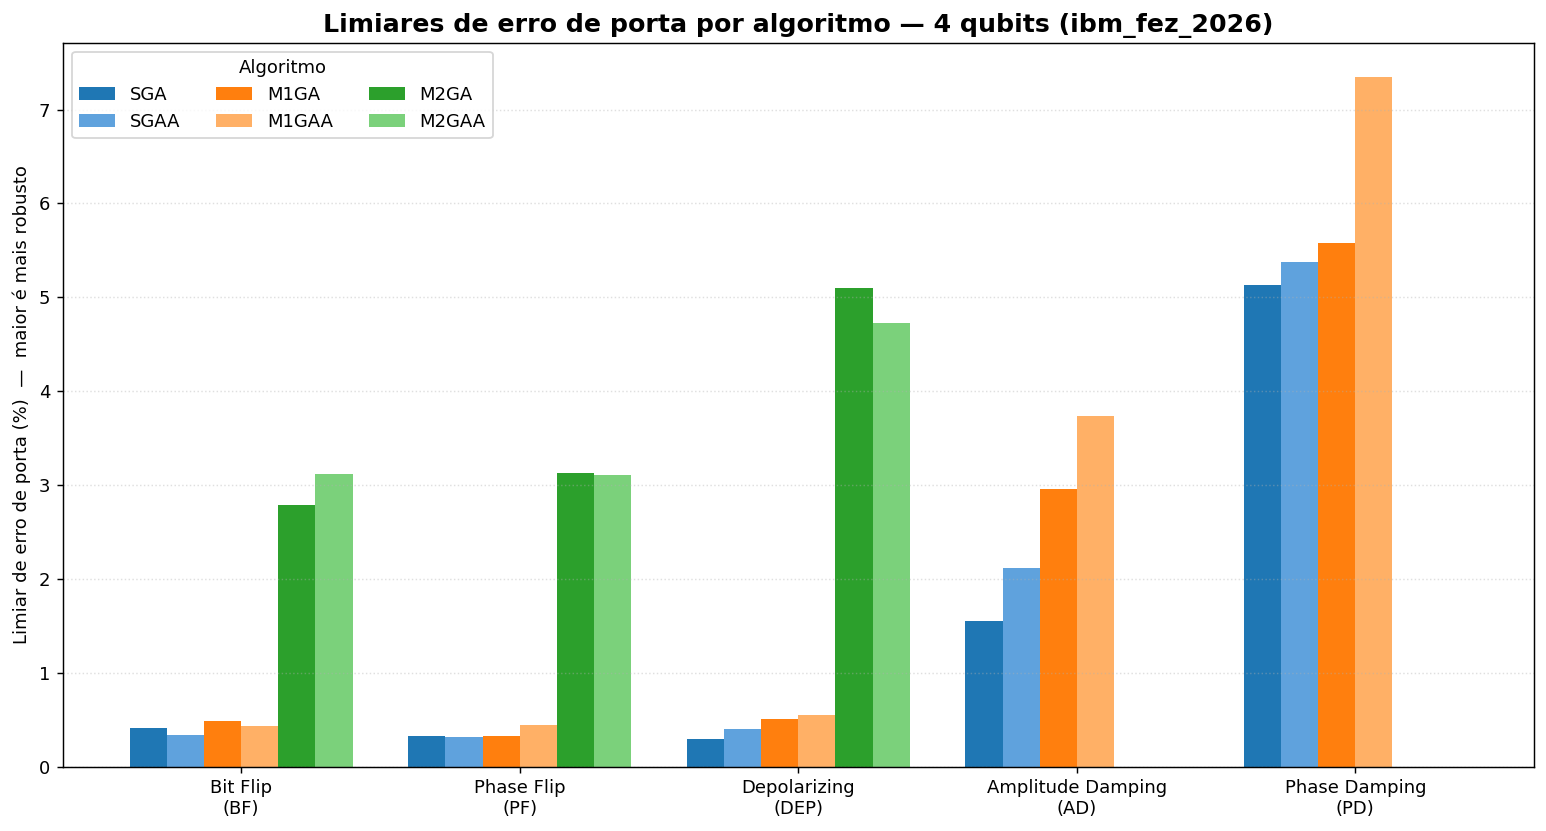
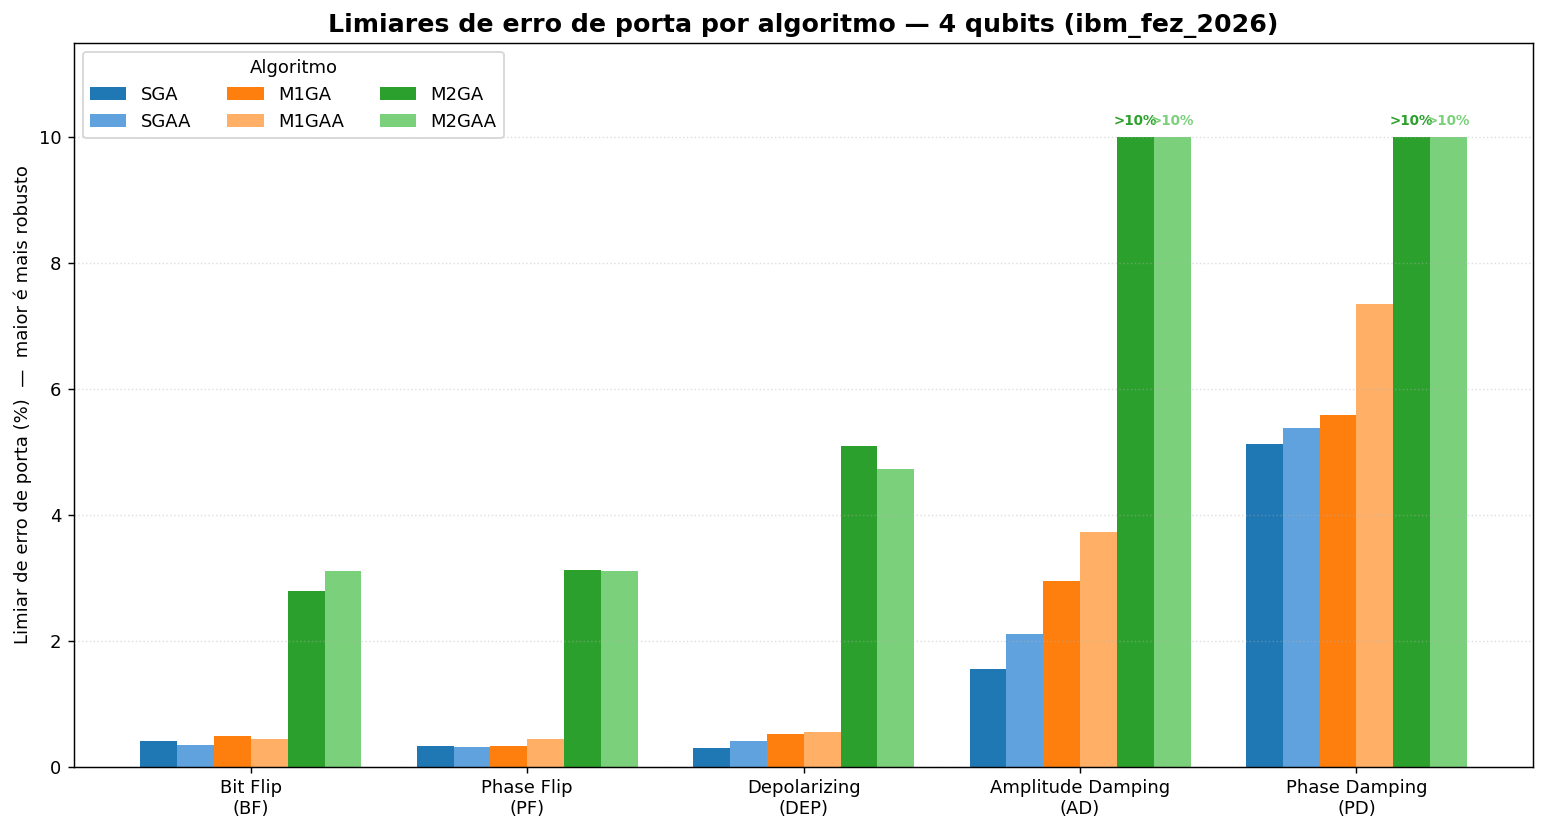
fix: correct gate error thresholds bar chart visualization for hyper-robust algorithms M2GA/M2GAA

Changed region(s): [[0.0, 0.0602, 0.5899, 0.9928], [0.621, 0.0903, 0.9935, 0.9928], [0.1863, 0.0, 0.8383, 0.0602]]

diff --git a/src/plot_results.py b/src/plot_results.py
@@ -108,17 +108,33 @@ def fig_gate_thresholds(gate_records, profile, n_qubits):
 
     for i, algo in enumerate(ALGO_ORDER):
         vals = []
+        is_hyper_robust = []
         for err in ERR_ORDER:
             rec = idx.get((n_qubits, algo, err))
             tp = rec.get("threshold_prob") if rec else None
-            vals.append((tp * 100.0) if tp is not None else 0.0)
-        ax.bar(x + i * width, vals, width, label=algo, color=ALGO_COLOR[algo])
+            if tp is not None:
+                vals.append(tp * 100.0)
+                is_hyper_robust.append(False)
+            else:
+                # Se for None, o algoritmo se manteve S >= 3dB em toda a varredura (até 10%)
+                vals.append(10.0)
+                is_hyper_robust.append(True)
+        bars = ax.bar(x + i * width, vals, width, label=algo, color=ALGO_COLOR[algo])
+        
+        # Adiciona um rótulo indicativo sobre a barra para algoritmos hiper-robustos (>=10%)
+        for bar, hyper in zip(bars, is_hyper_robust):
+            if hyper:
+                height = bar.get_height()
+                ax.text(bar.get_x() + bar.get_width()/2., height + 0.15,
+                        '>10%', ha='center', va='bottom', fontsize=7.5,
+                        fontweight='bold', color=ALGO_COLOR[algo], rotation=0)
 
     ax.set_xticks(x + 0.4 - width / 2)
     ax.set_xticklabels([f"{ERR_LABEL[e]}\n({e})" for e in ERR_ORDER])
     ax.set_ylabel("Limiar de erro de porta (%)  —  maior é mais robusto")
     ax.set_title(f"Limiares de erro de porta por algoritmo — {n_qubits} qubits ({profile})",
                  fontsize=14, fontweight="bold")
+    ax.set_ylim(0, 11.5)  # Ajusta o limite superior para dar espaço ao rótulo '>10%'
     ax.legend(title="Algoritmo", ncol=3)
     ax.grid(True, axis="y", ls=":", alpha=0.4)
     fig.tight_layout()
